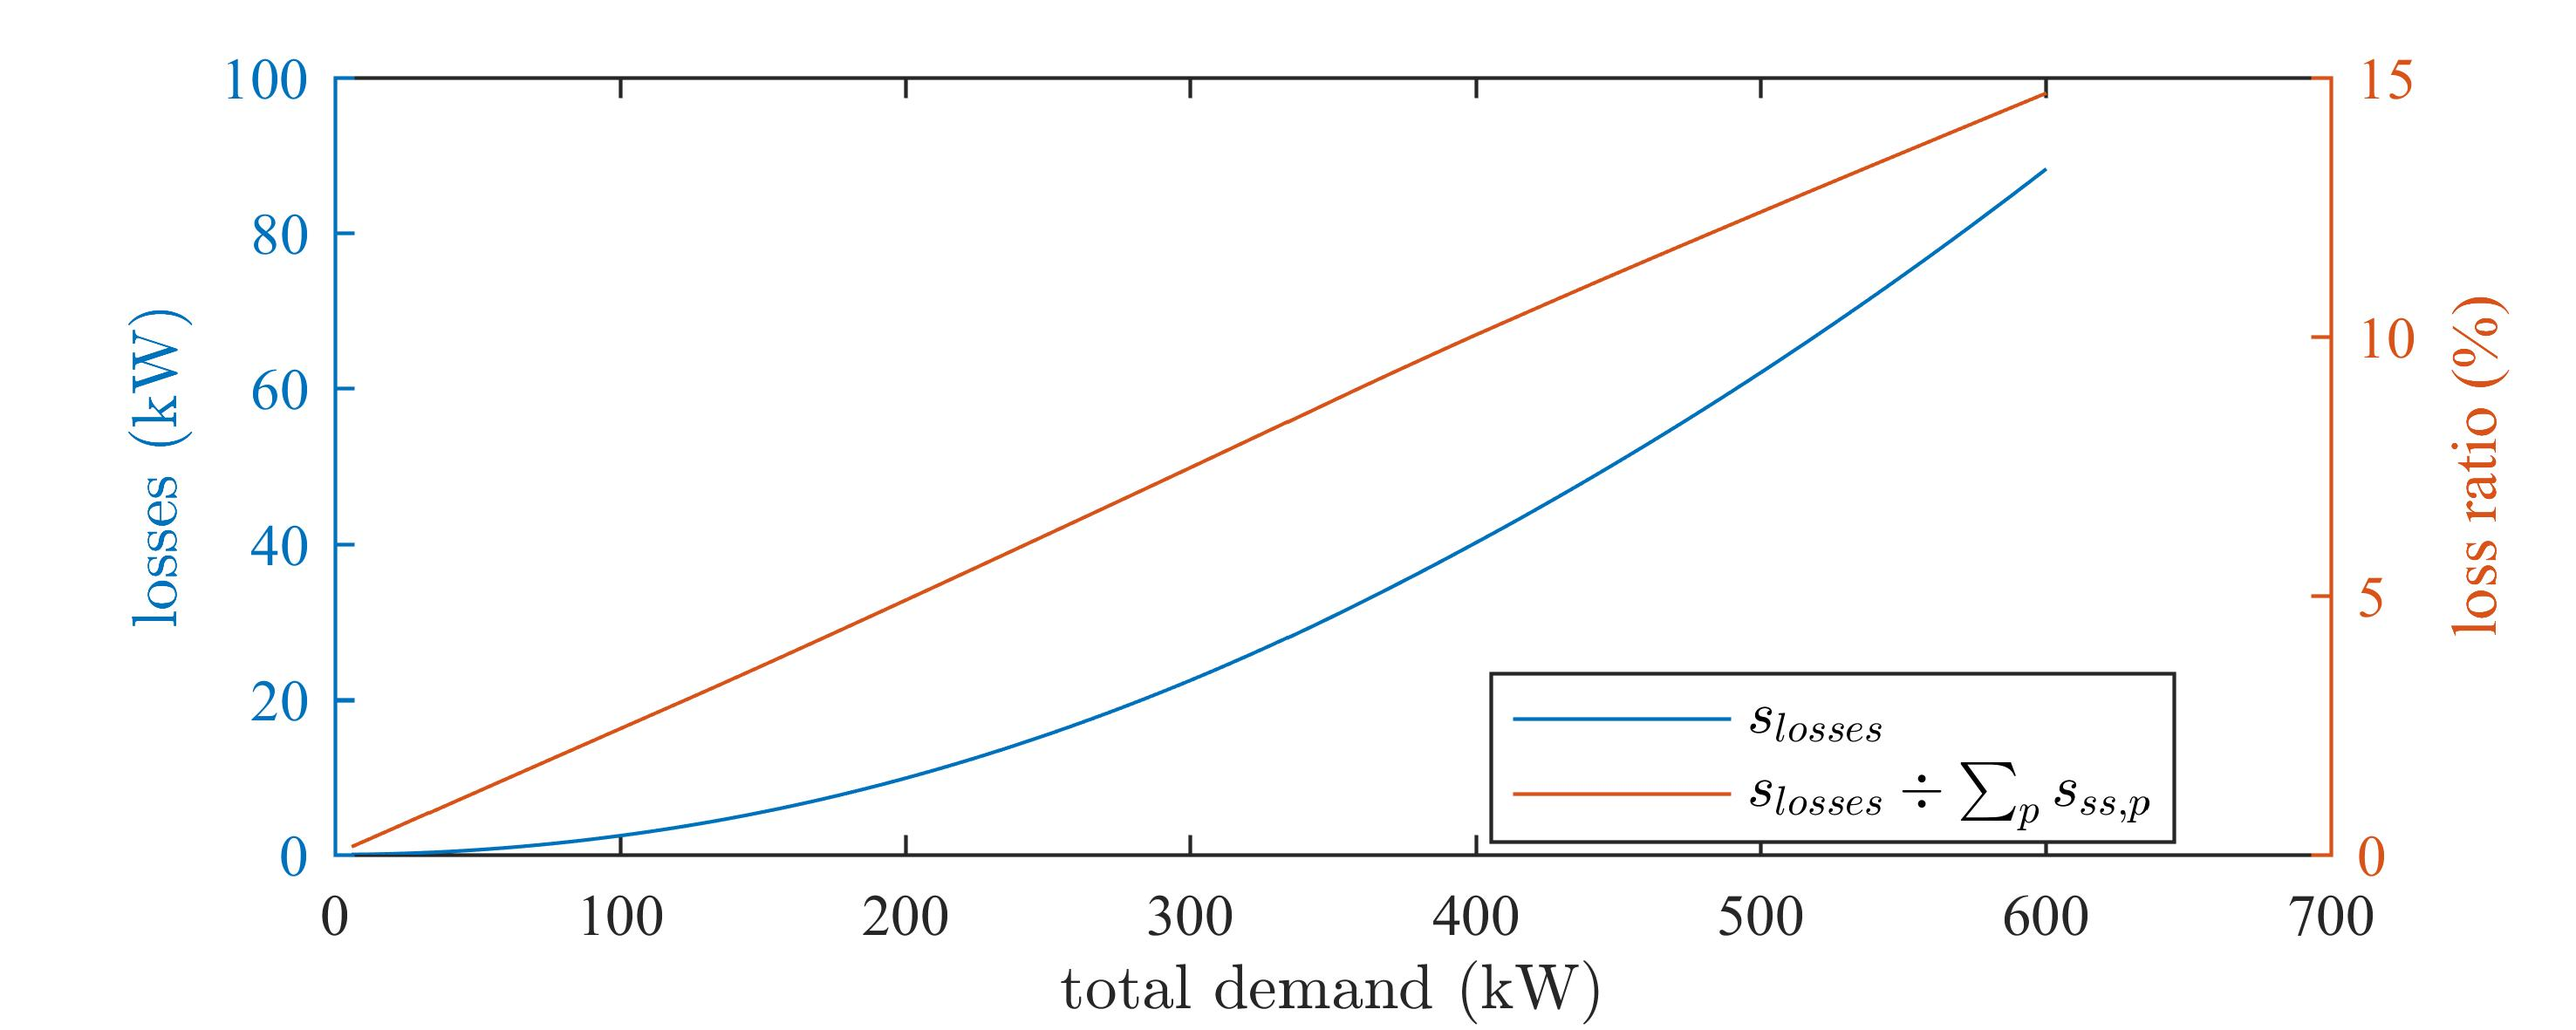
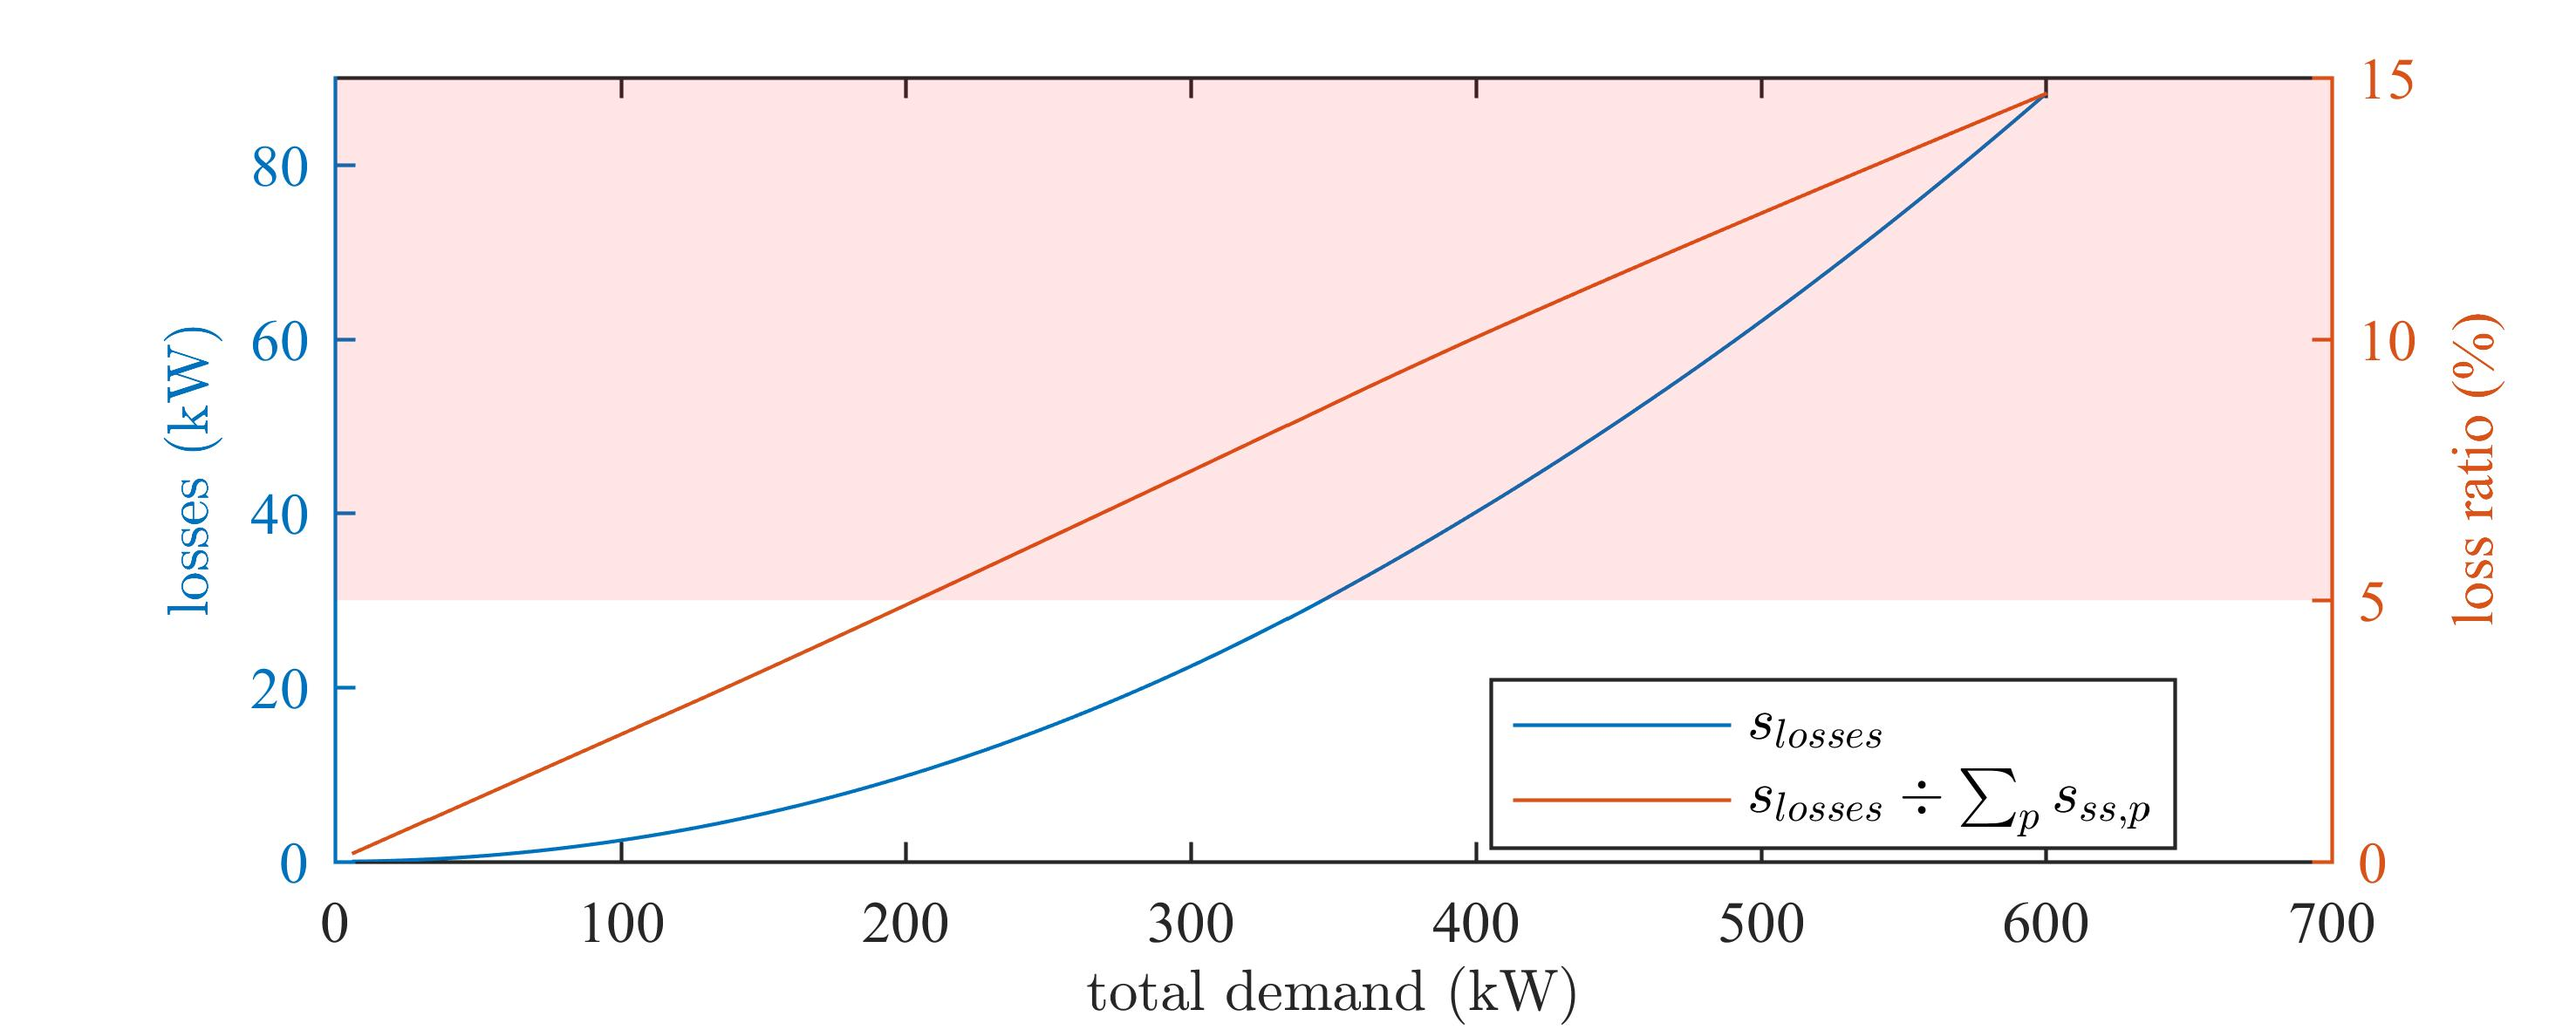
Finished key parameters and started with models

diff --git a/_chapter1/sec/data-and-network-models.tex b/_chapter1/sec/data-and-network-models.tex
@@ -1,2 +1,34 @@
-\section{Data and Network Models}
+\section{Network, Data and Battery Models}
 \label{ch1:sec:data-and-network-models}
+
+All key network parameters and their associated cost functions have now been established.
+In this section the network model and power flow simulation, from which all aforementioned key network parameters were extracted is explained.
+Also, all data that is used throughout the research, as it is presented in this chapter, is included presented, too.
+
+\subsection{Standardised Network Model}
+\label{ch1:subsec:standardised-network-model}
+
+The IEEE Power and Energy Society (IEEE-PES) provided several multi-node test feeder cases.
+These test cases used to be limited to distribution networks in the United States.
+In 2015 however, they published a standardised model of a LV distribution network for the UK power network.
+This model is called the ``European Low Voltage Test Feeder'' and an OpenDSS compatible version can be obtained from their website, too \cite{DistributionTestFeeders2017}.
+Within the context of this work, the feeder is referred to as the ``LV Test Case'' and a network plot of this feeder has been included for reference.
+
+\input{_chapter1/fig/network-plot-LVTestCase}
+
+Here, a substation (triangle in north west) provides power to the feeder, and the amount of power is visualised by using a thicker line plot.
+There are 55 single-phase households connected to the substation and for this particularly case, are each customer drew 2kW.
+
+\subsection{Load Profiles: Minutely and Half-Hourly}
+
+Alongside the LV Test Case, 100 minutely demand profiles were supplied; each being 24h long.
+A series of 1440 snapshot simulations was run, by assigning one load profile to one customer.
+Doing so made it possible to simulate the variation and volatility in demand over a day.
+Since the values given are active power values, a standardised power factor of 95\% was used for all loads.
+This non-unity power factor simulates a certain inductive load, which would otherwise be neglected.
+
+Since the minutely profiles' resolution is too high in order to effectively calculate battery schedules, they had to be down-sampled.
+This down-sampling was achieved by first calculating the daily demand profile at sub-half-hourly resolution.
+Then, the day was split into 48 half-hourly time-slots, and the average power was computed for each.
+
+\subsection{Battery Model}

diff --git a/_chapter1/sec/key-network-parameters.tex b/_chapter1/sec/key-network-parameters.tex
@@ -208,10 +208,11 @@ Although the losses a single distribution network are small in comparison to the
 To put this into perspective, the losses in the IEEE LV Test Case network were 58kW, when simulated under the same high demand scenario which was used for voltage drop visualisation in Section \ref{ch1:subsec:voltages-at-customers}.
 This equates to 12\% of the total network demand ($\text{i.e. }\frac{s_{losses}(t)}{\sum_{p=1}^P{s_{ss,p}(t)}} \approx \frac{58kW}{484kW}$).
 Since this is a high network load, losses would be noticeably lower for notmal network operation.
-This is made apparent in Figure \ref{ch1:fig:losses-against-network-demand}, where the uniform network load is varied and the corresponding losses are plotted against it.
+This is made apparent in Figure \ref{ch1:fig:losses-against-network-demand}, where the uniform network load is varied and the corresponding losses are plotted against this variation.
 
 \input{_chapter1/fig/losses-against-network-demand}
 
+In Figure \ref{ch1:fig:losses-against-network-demand}, the region where losses exceed 5\% of the total network power is highlighted in red.
 These preliminary results were found from power flow simulations.
 In reality however, losses cannot be determined this easily.
 Therefore, the network losses, $s_{losses}(t)$, are seen as theoretical key network parameters and used in the final cost function $\zeta_\text{losses}(s_{losses}(t))$, which is simply defined as:

diff --git a/_chapter1/fig/network-plot-LVTestCase.tex b/_chapter1/fig/network-plot-LVTestCase.tex
@@ -1,0 +1,5 @@
+\begin{figure}\centering
+	\includegraphics{_chapter1/fig/network-plot-LVTestCase}
+	\caption{IEEE-PES European Test Case Feeder, i.e. a LV distribution network in the UK.}
+	\label{ch1:fig:network-plot-LVTestCase}
+\end{figure}
